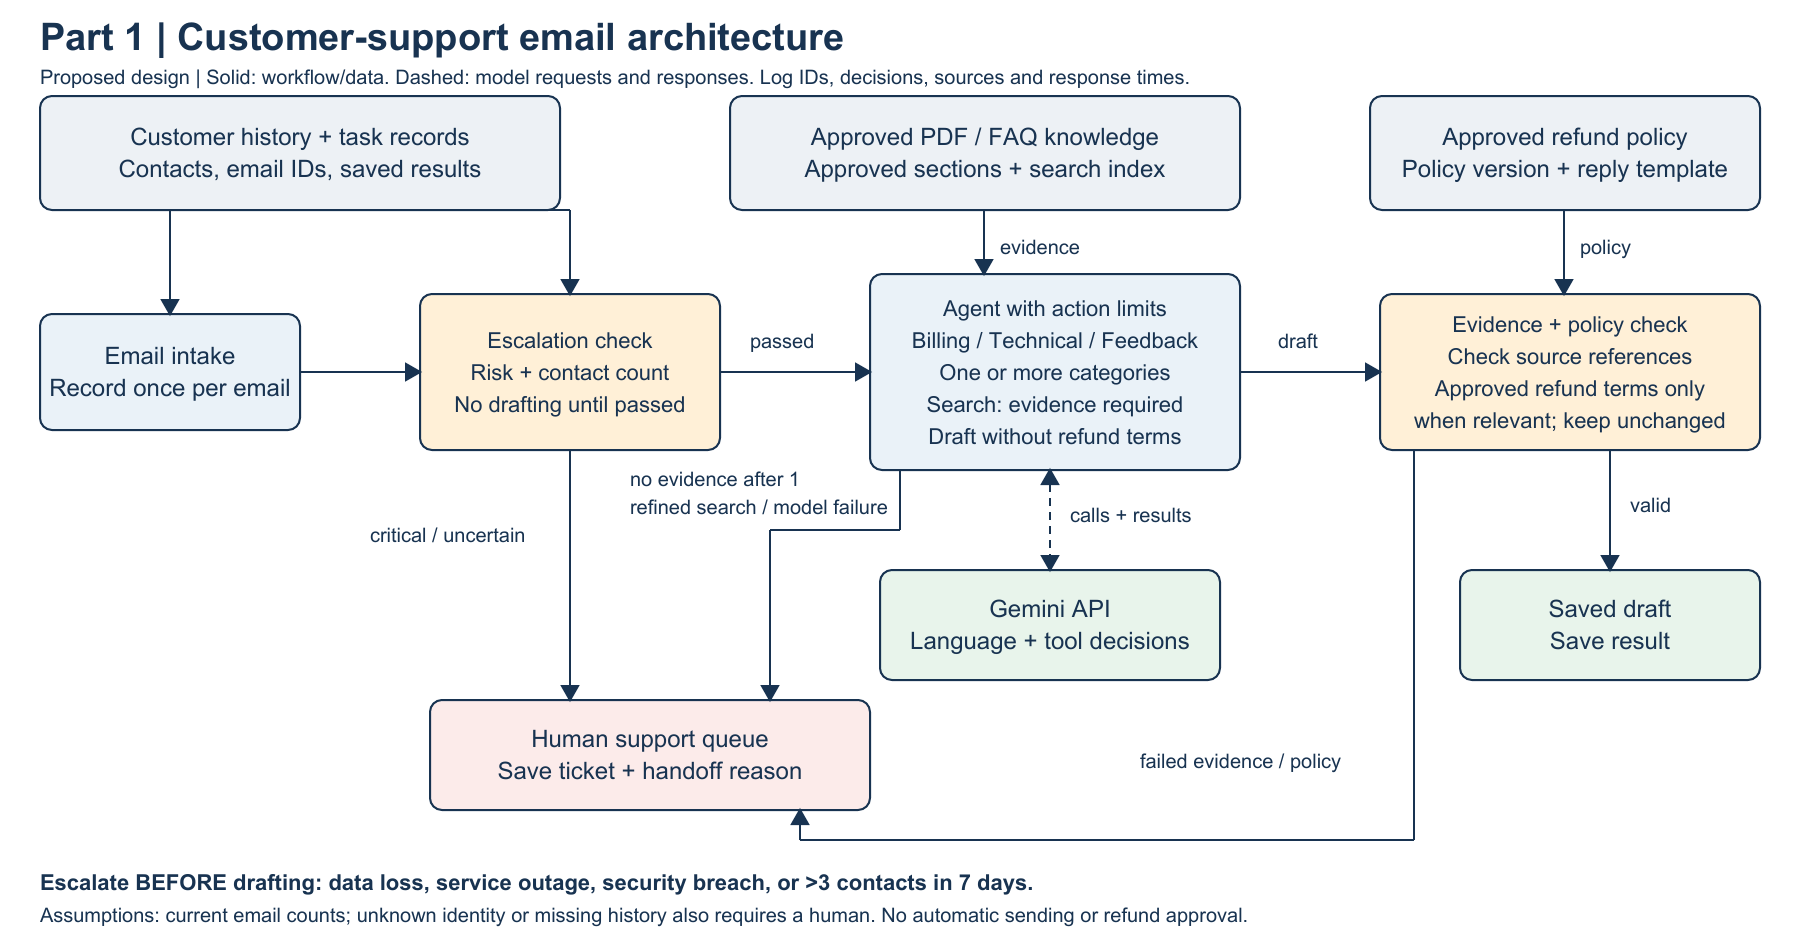
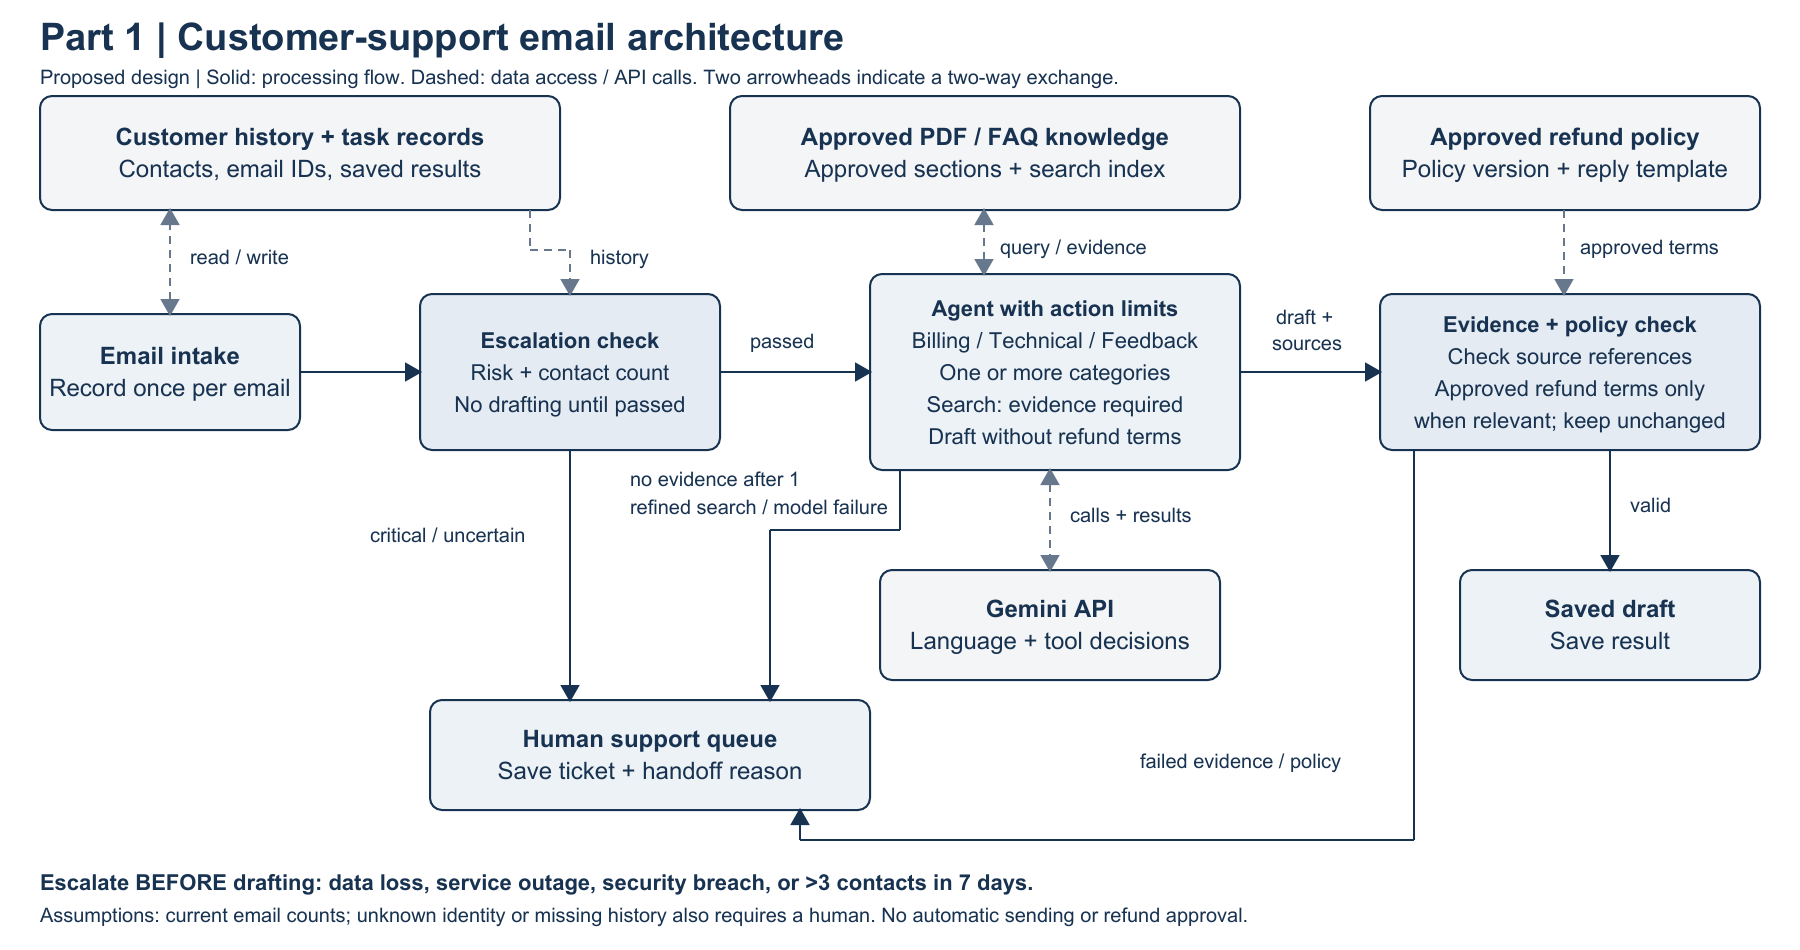
Polish Part 1 architecture diagram

diff --git a/part1/design.md b/part1/design.md
@@ -21,6 +21,8 @@ The following assumptions would need confirmation from the business:
 
 The diagram shows the main processing steps, approved information sources, the Gemini connection, and the two outcomes: a saved draft or a human support ticket. The flow below also shows the retry and search-improvement paths.
 
+Solid arrows show processing order. Dashed arrows show data access or API calls, with two arrowheads for two-way exchanges. Intake reads prior outcomes and records the contact before the escalation check uses its history. The draft reaches validation together with its source references. The outputs also save the final processing state; these writes are omitted from the overview to keep the diagram readable.
+
 Before writing a reply, the system checks for data loss, a service outage, or a security breach. It also checks whether the customer has contacted support more than three times in seven days. Any of these conditions sends the email to a human. Missing customer details, incomplete history, or uncertain risk also blocks drafting.
 
 ### Processing flow
